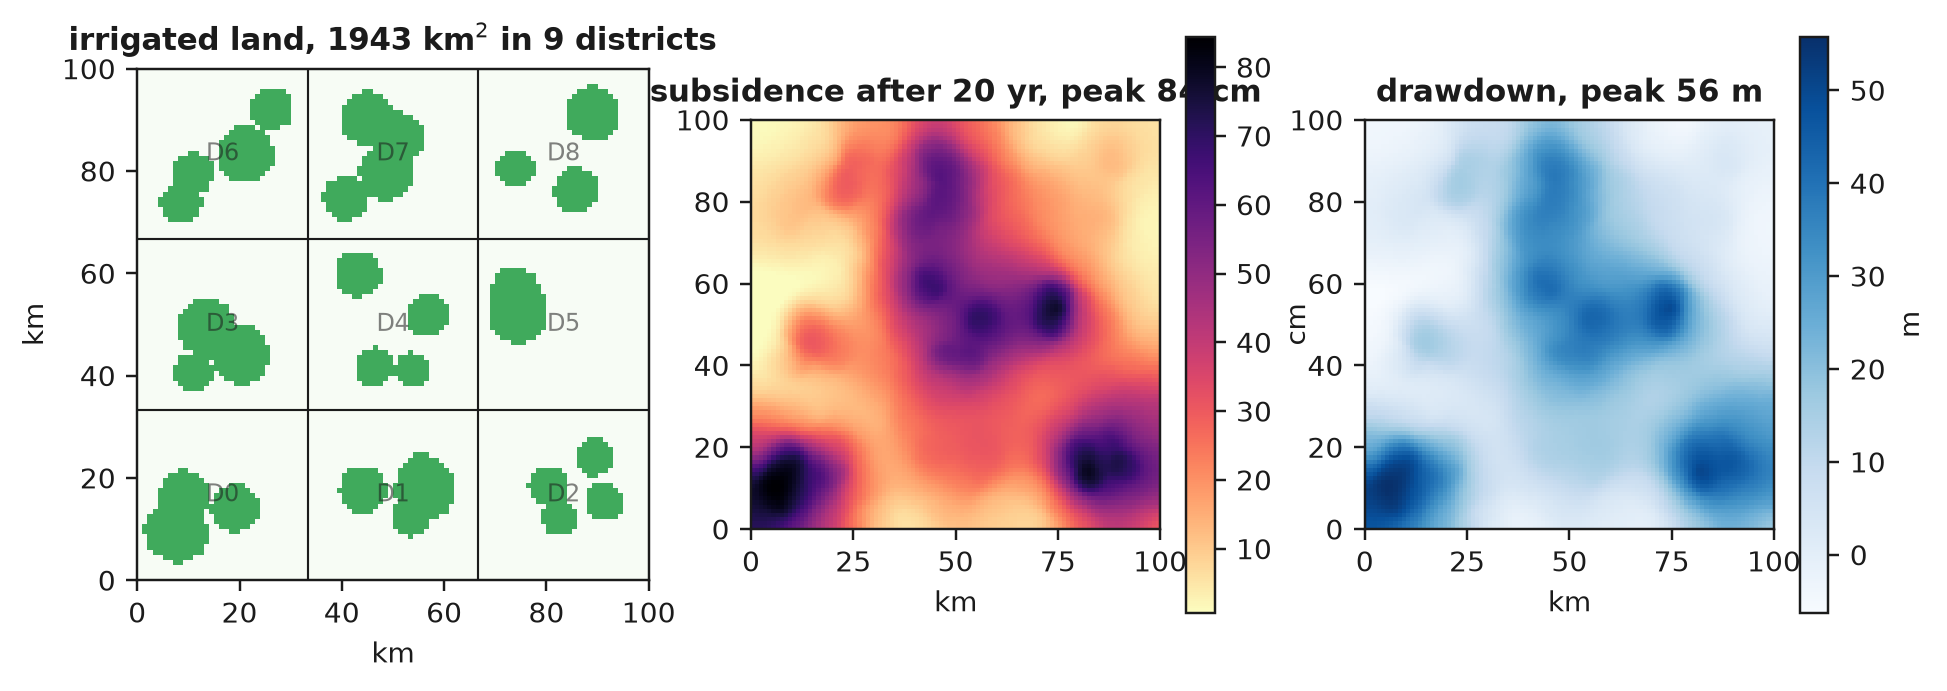
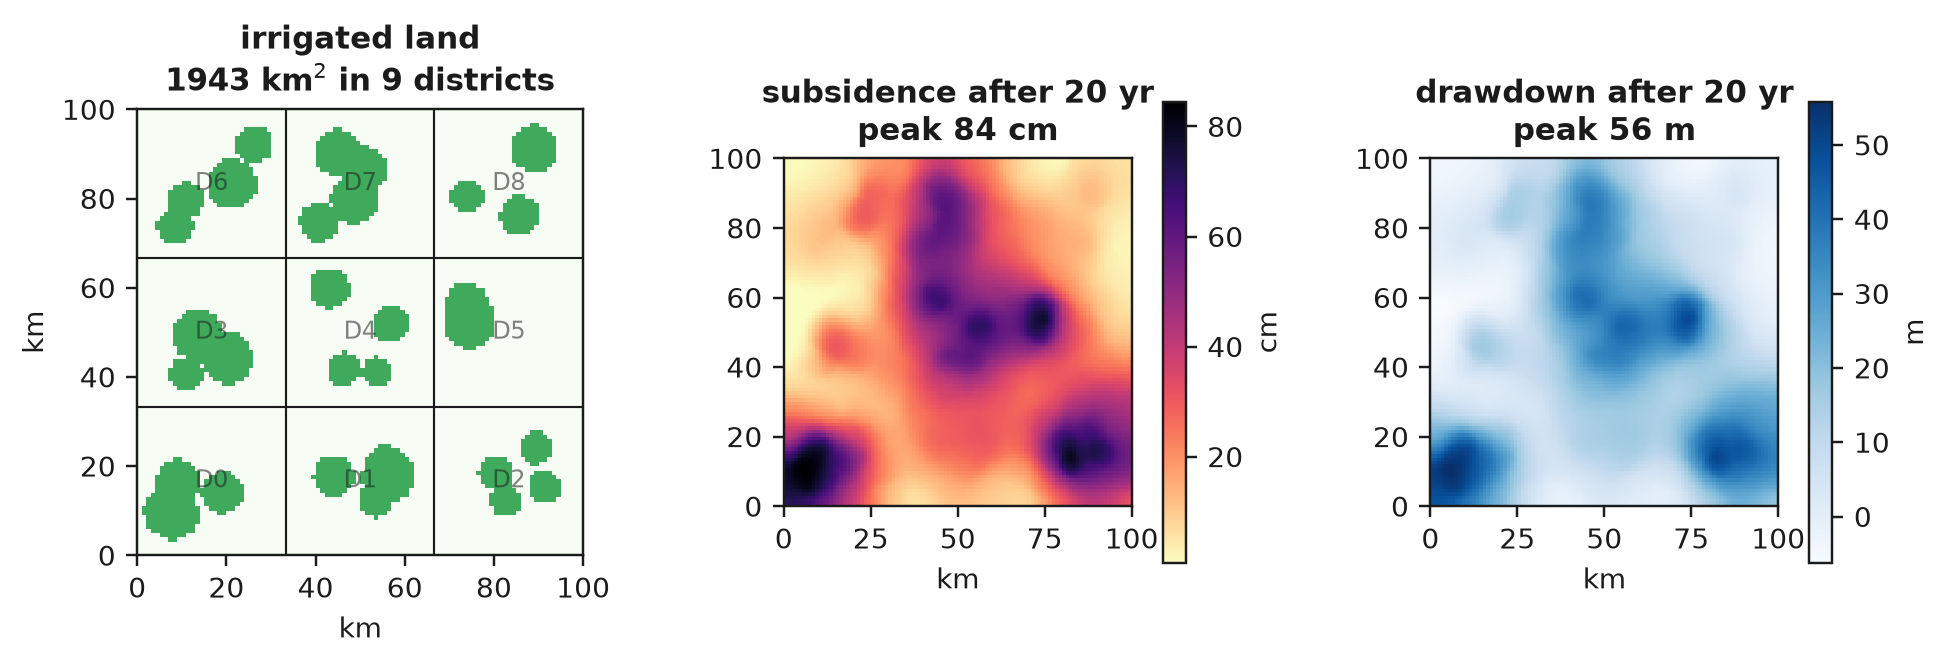
Draw the metered-era window curve as its own figure
make metered-era now also writes fig21_window_metered.png from metered_era$(KTAG).json. The basin figure's panel titles take two lines.

diff --git a/scripts/34_window_figure.py b/scripts/34_window_figure.py
@@ -1,0 +1,91 @@
+"""fig21: the window curve on the metered era alone, one panel, for the deck.
+
+Every non-overlapping pair of averaging windows of each length inside 2009-2024, the years
+the six-county truth is meter-coded, scored on the change between the two windows. Read
+from results/metered_era{tag}.json, so it needs `make metered-era` first; nothing is
+recomputed here. Window lengths with fewer than ten pairs are left off the curve.
+
+    python scripts/34_window_figure.py --tag _v3
+"""
+from __future__ import annotations
+
+import argparse
+import json
+import sys
+from pathlib import Path
+
+import numpy as np
+
+ROOT = Path(__file__).resolve().parents[1]
+sys.path.insert(0, str(ROOT / "src"))
+
+import matplotlib
+matplotlib.use("Agg")
+import matplotlib.pyplot as plt
+
+from mizan import figures as F
+
+RES = ROOT / "results"
+FIG = ROOT / "figures"
+MIN_PAIRS = 10
+INK_SOFT = "#6b7078"
+
+# Account key in the results file -> label, colour, marker; the closure is drawn last.
+SERIES = [
+    ("FLAT", "mapped area × acre-foot", F.MUTED, "D"),
+    ("WATERBAL", "+ precipitation deficit", F.SAND, "s"),
+    ("OPENLOOP", "published open loop, ET / 0.80", F.WARM, "^"),
+    ("CLOSURE", "the closure", F.ACCENT, "o"),
+]
+
+
+def main() -> None:
+    ap = argparse.ArgumentParser()
+    ap.add_argument("--tag", type=str, default="_v3")
+    args = ap.parse_args()
+
+    res = json.loads((RES / f"metered_era{args.tag}.json").read_text())
+    era = res["_meta"]["era_year0"]
+    last = res["_meta"]["years"][1]
+    curve = res["window_curve_metered_era"]["by_window_years"]
+    ws = sorted(int(w) for w, v in curve.items() if v["n_pairs"] >= MIN_PAIRS)
+    err = {k: np.array([curve[str(w)]["mean_abs_error_pts"][k] for w in ws])
+           for k, *_ in SERIES}
+
+    fig, ax = plt.subplots(figsize=(8.6, 3.5))
+    for k, lab, col, mk in SERIES:
+        closure = k == "CLOSURE"
+        ax.plot(ws, err[k], marker=mk, ms=6 if closure else 5, lw=2.4 if closure else 1.4,
+                color=col, label=lab, zorder=3 if closure else 2)
+
+    # First window length at which the closure is closer than every meter-free account.
+    rivals = np.vstack([err[k] for k, *_ in SERIES if k != "CLOSURE"])
+    ahead = np.nonzero(err["CLOSURE"] < rivals.min(axis=0))[0]
+    if ahead.size:
+        xc = ws[ahead[0]]
+        ax.axvline(xc, color=INK_SOFT, lw=1.0, ls=":")
+        ax.annotate(f"from {xc} years the closure\nleads every meter-free account",
+                    (xc, err["CLOSURE"][ahead[0]]), textcoords="offset points",
+                    xytext=(12, -64), fontsize=9, color=F.ACCENT, fontweight="bold")
+
+    ax.set_xticks(ws)
+    ax.set_xticklabels([f"{w}\n{curve[str(w)]['n_pairs']} pairs" for w in ws])
+    ax.set_xlabel("length of each averaging window, years")
+    ax.set_ylabel("mean error on the change, points")
+    ax.set_title(f"Six Kansas counties, metered {era}–{last}: error on the change "
+                 "between two periods")
+    ax.set_ylim(0, None)
+    ax.legend(loc="lower left", fontsize=8.5, ncol=2)
+    F.despine(ax)
+
+    out = FIG / ("fig21_window_metered.png" if args.tag == "_v3"
+                 else f"fig21_window_metered{args.tag}.png")
+    F.save(fig, out)
+    print("wrote " + str(out.relative_to(ROOT)))
+    for i, w in enumerate(ws):
+        print("  {} yr ({:>2} pairs)  ".format(w, curve[str(w)]["n_pairs"])
+              + "  ".join("{}={:.2f}".format(k, err[k][i]) for k, *_ in SERIES))
+
+
+if __name__ == "__main__":
+    main()

diff --git a/scripts/05_figures.py b/scripts/05_figures.py
@@ -34,6 +34,7 @@ def fig_basin(tr):
     """The synthetic basin: irrigated area, subsidence, drawdown."""
     mask = F.pivot_mask(C.TRUTH)
     fig, ax = plt.subplots(1, 3, figsize=(10.2, 3.4))
+    fig.subplots_adjust(wspace=0.45)
     ext = [0, C.DOMAIN_KM, 0, C.DOMAIN_KM]
 
     ax[0].imshow(mask, origin="lower", extent=ext, cmap="Greens", vmin=0, vmax=1.6)
@@ -44,18 +45,18 @@ def fig_basin(tr):
         i, j = divmod(d, 3)
         ax[0].text((j + 0.5) * C.DOMAIN_KM / 3, (i + 0.5) * C.DOMAIN_KM / 3, f"D{d}",
                    ha="center", va="center", color=FG.INK, fontsize=8, alpha=0.55)
-    ax[0].set_title(f"irrigated land, {int(mask.sum())} km$^2$ in 9 districts")
+    ax[0].set_title(f"irrigated land\n{int(mask.sum())} km$^2$ in 9 districts")
 
     im = ax[1].imshow(tr["subsidence_final"] * 100, origin="lower", extent=ext,
                       cmap="magma_r")
-    plt.colorbar(im, ax=ax[1], label="cm")
-    ax[1].set_title(f"subsidence after {C.NYEAR} yr, peak "
+    plt.colorbar(im, ax=ax[1], label="cm", shrink=0.8, pad=0.07)
+    ax[1].set_title(f"subsidence after {C.NYEAR} yr\npeak "
                     f"{tr['subsidence_final'].max()*100:.0f} cm")
 
     im = ax[2].imshow(C.H_INIT - tr["head_final"], origin="lower", extent=ext,
                       cmap="Blues")
-    plt.colorbar(im, ax=ax[2], label="m")
-    ax[2].set_title(f"drawdown, peak {(C.H_INIT - tr['head_final']).max():.0f} m")
+    plt.colorbar(im, ax=ax[2], label="m", shrink=0.8, pad=0.07)
+    ax[2].set_title(f"drawdown after {C.NYEAR} yr\npeak {(C.H_INIT - tr['head_final']).max():.0f} m")
     for a in ax:
         a.set_xlabel("km")
         a.grid(False)
